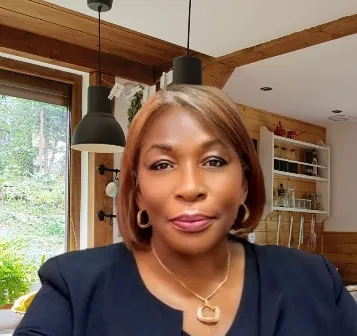
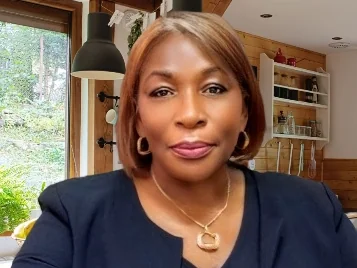
Unify team page to single 3x3 grid with bullet bios
Apply client feedback: combine onshore, offshore, and legal teams into one
"Our Team" section using uniform card sizes; preserve client's priority order
(Glen/Sonia, Monica G/Elaine, Monica L/Ruby, Nino/Mansheel, Priscilla); fix
"Norainy" -> "Nurainy" and "Priscillia" -> "Priscilla"; add Tamsyn Ong photo
and refresh Glen/Elaine/Ruby + others.

Replace prose bios with three-bullet summaries to keep card heights balanced,
switch avatar full size to a 4:3 aspect with object-top so headshots aren't
buried, and update home.blade collage to a uniform square grid in the new
client-requested order.

diff --git a/resources/views/pages/about/team.blade.php b/resources/views/pages/about/team.blade.php
@@ -2,30 +2,122 @@
           description="Meet the Blue Education team: multilingual specialists who have engaged with more than 145 nations, delivering education, migration, and career advice.">
 
     @php
-        $australianTeam = [
-            ['name' => 'Glen Ong', 'role' => 'Principal MARA Agent & Managing Director', 'photo' => 'images/team/glen-ong.webp', 'bio' => 'Glen brings nearly 20 years of experience across private and government education sectors. As Managing Director, he leads Blue\'s long-term strategy while remaining personally accessible to clients. A Registered Migration Agent, Glen is experienced in student visas, skilled migration, family and partner visas, and resident return visas.', 'credentials' => 'BCom (Marketing), BArts (Asian Studies) — Curtin University; Grad Certificate in Migration Law & Practice; MARN 1385471', 'languages' => 'English, Cantonese, Bahasa Malaysia'],
-            ['name' => 'Monica Gaikwad', 'role' => 'Service Manager', 'photo' => 'images/team/monica-gaikwad.webp', 'bio' => 'Monica joined Blue through the Executive Internship Programme and quickly proved herself a real asset to the team. As Service Manager, she oversees onshore client experience, coordinating between institutions and stakeholders to keep each case progressing smoothly and transparently. Originally from India, Monica enjoys cooking, calligraphy and relaxed brunches with friends.', 'credentials' => 'MBA — Curtin University; BBusiness (Accounting & Auditing) — S.N.D.T Women\'s University, Mumbai', 'languages' => 'English, Hindi, Marathi'],
-        ];
-
-        $legalTeam = [
-            ['name' => 'Mansheel Kaur', 'role' => 'Solicitor | Immigration Lawyer', 'photo' => 'images/team/mansheel-kaur.webp', 'bio' => 'Mansheel comes with over 35 years of legal experience spanning Australia and Malaysia. She has a strong track record across business migration, skilled migration, family and partner visas, contributory parent visas, and resident return visas. She is a Notary Public and an accredited Mediator, and speaks five languages.', 'credentials' => 'LL.B & Bachelor of Jurisprudence — Monash University; Solicitor (NSW); Advocate & Solicitor (Malaysia); Accredited Mediator; Notary Public', 'languages' => 'English, Malay, Indonesian, Punjabi, Hindi'],
-        ];
-
-        $sonia = ['name' => 'Sonia Ong', 'role' => 'Executive Director | Regional Operations', 'photo' => 'images/team/sonia-ong.webp', 'bio' => 'Sonia leads Blue\'s offshore initiatives, bringing over 20 years of experience in strategy, risk, and governance consulting. Her background spans multi-national corporations, public listed companies, and senior management advisory across Asia. She speaks fluently in five languages.', 'credentials' => 'MBA — Deakin University (Strategy & Planning); BCom — University of Western Australia; CPA (Australia); Chartered Accountant (Malaysia)', 'languages' => 'English, Mandarin, Cantonese, Bahasa Malaysia, Bahasa Indonesia'];
-
-        $internationalTeam = [
-            ['name' => 'Elaine Ho', 'role' => 'Regional Head, Malaysia', 'photo' => 'images/team/elaine-ho.webp', 'bio' => 'Elaine brings a rare combination of legal training, international procurement experience, and education counselling. After practising law in Malaysia, she moved into governance and strategy roles with the UN and a major Asia Pacific airline before dedicating herself to student and migration counselling.', 'credentials' => 'Barrister at Law — Lincoln\'s Inn', 'languages' => 'English, Malay, Cantonese', 'region' => 'Malaysia, Southeast Asia'],
-            ['name' => 'Monica Low', 'role' => 'Associate Counsellor, Malaysia', 'photo' => 'images/team/monica-low.webp', 'bio' => 'A native of Kuala Lumpur, Monica brings years of business and interpersonal skills developed across hotel management in Seattle, retail banking in Singapore, and now education counselling in Malaysia. Her approachable personality and multilingual fluency make her a natural fit for student interaction across Southeast Asia.', 'credentials' => 'BSc in Hospitality & Tourism Management — Purdue University; Postgraduate Diploma in Marketing — Curtin University', 'languages' => 'English, Bahasa Malaysia, Mandarin, Cantonese', 'region' => 'Malaysia, Southeast Asia'],
-            ['name' => 'Nino Sekyere-Boakye', 'role' => 'Regional Director, Ghana | Registered Migration Agent MARN: 0959773', 'photo' => 'images/team/nino-sekyere-boakye.webp', 'bio' => 'Nino is an academician and researcher who has spent over a decade helping African students pursue education and work experience in Australia. He has travelled and worked in over 25 African countries. As a Registered Migration Agent, Nino advises on courses, visa pathways, career options, and life in Australia.', 'credentials' => 'BA (Hons) — University of Ghana; Master of Professional Marketing — Edith Cowan University; Graduate Diploma of Migration Law — Murdoch University; MARN 0959773', 'languages' => 'English, French (conversational)', 'region' => 'Ghana, West Africa'],
-            ['name' => 'Ruby Aglagoh', 'role' => 'Regional Adviser, Ghana & West Africa', 'photo' => 'images/team/ruby-aglagoh.webp', 'bio' => 'Ruby Aglagoh is the Regional Adviser for Ghana and West Africa through an established strategic alliance with Blue Education. In this role, she provides guidance on international study pathways, student placement, and cross-border academic advisory services, supporting students and families in making informed study-abroad decisions. With a strong focus on ethical counselling and tailored support, Ruby plays a key role in bridging opportunities between this region and global educational institutions. Called to the Ghana Bar in 2001 and as Notary Public in 2012, Mrs. Ruby Aglagoh has built a distinguished legal career spanning over two decades.', 'credentials' => 'Barrister & Solicitor — Ghana Bar; Notary Public', 'languages' => 'English', 'region' => 'Ghana, West Africa'],
-            ['name' => 'Priscillia Bwalya Mwansa', 'role' => 'Regional Adviser, Lusaka | Senior Counsellor', 'photo' => 'images/team/priscilla-mwansa.webp', 'bio' => 'Priscillia is a Senior Counsellor responsible for planning, advising, and supporting students from Zambia and the broader region who wish to pursue education in Australia. With a background in strategic management and chartered accounting, she provides insight into both career planning and the financial considerations of studying abroad.', 'credentials' => 'Bachelor of Accounting — Copperbelt University; MBA (Finance, in progress); Chartered Accountant — ZICA', 'languages' => 'English, ici Bemba', 'region' => 'Zambia, Southern Africa'],
+        $mainTeam = [
+            [
+                'name' => 'Glen Ong',
+                'photo' => 'images/team/glen-ong.webp',
+                'languages' => 'English, Cantonese, Bahasa Malaysia',
+                'badge' => 'Managing Director · MARN 1385471',
+                'leadership' => true,
+                'bullets' => [
+                    'Nearly 20 years across education and migration sectors',
+                    'Registered Migration Agent specialising in student, skilled, family and partner visas',
+                    'BCom and BArts, Curtin University; Grad Cert Migration Law & Practice',
+                ],
+            ],
+            [
+                'name' => 'Sonia Ong',
+                'photo' => 'images/team/sonia-ong.webp',
+                'languages' => 'English, Mandarin, Cantonese, Bahasa Malaysia, Bahasa Indonesia',
+                'badge' => 'Executive Director · International Operations',
+                'leadership' => true,
+                'bullets' => [
+                    '20+ years in strategy, risk and governance consulting across Asia',
+                    'Experience spanning multi-nationals, public-listed companies and senior advisory',
+                    'MBA — Deakin University; CPA (Australia); Chartered Accountant (Malaysia)',
+                ],
+            ],
+            [
+                'name' => 'Monica Gaikwad',
+                'photo' => 'images/team/monica-gaikwad.webp',
+                'languages' => 'English, Hindi, Marathi',
+                'badge' => 'Service Manager',
+                'leadership' => false,
+                'bullets' => [
+                    'Joined Blue through the Executive Internship Programme',
+                    'Oversees onshore client experience end-to-end',
+                    'Coordinates institutions and stakeholders for smooth case progress',
+                ],
+            ],
+            [
+                'name' => 'Elaine Ho',
+                'photo' => 'images/team/elaine-ho.webp',
+                'languages' => 'English, Malay, Cantonese',
+                'badge' => 'Regional Head, Malaysia',
+                'leadership' => false,
+                'bullets' => [
+                    'Legal training and international procurement experience',
+                    'Former UN governance and Asia Pacific airline strategy roles',
+                    'Barrister at Law — Lincoln\'s Inn; specialises in student and migration counselling',
+                ],
+            ],
+            [
+                'name' => 'Monica Low',
+                'photo' => 'images/team/monica-low.webp',
+                'languages' => 'English, Bahasa Malaysia, Mandarin, Cantonese',
+                'badge' => 'Associate Counsellor, Malaysia',
+                'leadership' => false,
+                'bullets' => [
+                    'Hotel management, retail banking and education counselling experience',
+                    'Multilingual fluency for Southeast Asian student interaction',
+                    'BSc Hospitality & Tourism — Purdue University',
+                ],
+            ],
+            [
+                'name' => 'Ruby Aglagoh',
+                'photo' => 'images/team/ruby-aglagoh.webp',
+                'languages' => 'English',
+                'badge' => 'Regional Adviser, Ghana & West Africa',
+                'leadership' => false,
+                'bullets' => [
+                    'Strategic alliance partner for Ghana and West Africa',
+                    'Two decades-plus legal career; called to the Ghana Bar in 2001',
+                    'Notary Public; focus on ethical counselling and tailored support',
+                ],
+            ],
+            [
+                'name' => 'Nino Sekyere-Boakye',
+                'photo' => 'images/team/nino-sekyere-boakye.webp',
+                'languages' => 'English, French (conversational)',
+                'badge' => 'Regional Director, Ghana · MARN 0959773',
+                'leadership' => true,
+                'bullets' => [
+                    'A decade-plus supporting African students into Australia',
+                    'Lived and worked across 25+ African countries',
+                    'Registered Migration Agent; Master of Professional Marketing — ECU',
+                ],
+            ],
+            [
+                'name' => 'Mansheel Kaur',
+                'photo' => 'images/team/mansheel-kaur.webp',
+                'languages' => 'English, Malay, Indonesian, Punjabi, Hindi',
+                'badge' => 'Solicitor · Immigration Lawyer',
+                'leadership' => false,
+                'bullets' => [
+                    '35+ years of legal experience across Australia and Malaysia',
+                    'Track record in business, skilled, family and partner visas',
+                    'Notary Public, accredited Mediator; Solicitor (NSW); LL.B — Monash University',
+                ],
+            ],
+            [
+                'name' => 'Priscilla Bwalya Mwansa',
+                'photo' => 'images/team/priscilla-mwansa.webp',
+                'languages' => 'English, ici Bemba',
+                'badge' => 'Senior Counsellor, Lusaka',
+                'leadership' => false,
+                'bullets' => [
+                    'Senior Counsellor for Zambia and the broader region',
+                    'Strategic management and chartered accounting background',
+                    'Guides career planning and study-abroad financial considerations',
+                ],
+            ],
         ];
 
         $supportTeam = [
             ['name' => 'Hana Hursepuny', 'photo' => 'images/team/hana-hursepuny.webp'],
-            ['name' => 'Tamsyn Ong', 'photo' => null],
+            ['name' => 'Tamsyn Ong', 'photo' => 'images/team/tamsyn-ong.webp'],
             ['name' => 'Noor Ghafar', 'photo' => 'images/team/noor-ghafar.webp'],
-            ['name' => 'Norainy Desa', 'photo' => 'images/team/norainy-desa.webp'],
+            ['name' => 'Nurainy Desa', 'photo' => 'images/team/nurainy-desa.webp'],
             ['name' => 'Lucy Lim', 'photo' => 'images/team/lucy-lim.webp'],
             ['name' => 'Claudine Macaculop', 'photo' => 'images/team/claudine-macaculop.webp'],
         ];
@@ -46,83 +138,25 @@
         </div>
     </section>
 
-    {{-- §2 Australian Team --}}
+    {{-- §2 Our Team --}}
     <section class="bg-white">
         <div class="max-w-7xl mx-auto px-8 lg:px-16 py-14">
-            <x-section-heading title="Australian Team" :centered="false" />
-            <div class="grid sm:grid-cols-2 gap-6 [&_picture_img]:h-72" data-animate="stagger">
-                @foreach($australianTeam as $member)
-                    @php
-                        $isLeader = str_contains($member['role'], 'Managing Director');
-                    @endphp
+            <x-section-heading title="Our Team" :centered="false" />
+
+            <div class="grid sm:grid-cols-2 lg:grid-cols-3 gap-6" data-animate="stagger">
+                @foreach($mainTeam as $member)
                     <x-team-member :name="$member['name']"
-                                   :role="$member['role']"
                                    :photo="$member['photo']"
-                                   :bio="$member['bio']"
-                                   :credentials="$member['credentials']"
+                                   :bullets="$member['bullets']"
                                    :languages="$member['languages']"
-                                   :badge="$isLeader ? 'Managing Director · MARN 1385471' : null"
-                                   :leadership="$isLeader" />
+                                   :badge="$member['badge']"
+                                   :leadership="$member['leadership']" />
                 @endforeach
             </div>
         </div>
     </section>
 
-    {{-- §3 International Operations --}}
-    <section class="bg-base-50">
-        <div class="max-w-7xl mx-auto px-8 lg:px-16 py-14">
-            <x-section-heading title="International Operations" :centered="false" />
-            <p class="text-base-600 mb-10 text-lg leading-relaxed max-w-3xl text-pretty">Blue's international reach is powered by a team of regional representatives who provide localised support: in your language, in your time zone, with on-the-ground knowledge of your country's education and migration landscape.</p>
-
-            {{-- Sonia Ong — featured full-width lead --}}
-            <x-team-member :name="$sonia['name']"
-                           :role="$sonia['role']"
-                           :photo="$sonia['photo']"
-                           :bio="$sonia['bio']"
-                           :credentials="$sonia['credentials']"
-                           :languages="$sonia['languages']"
-                           variant="featured"
-                           badge="Executive Director · International Operations"
-                           :leadership="true"
-                           class="mb-6" />
-
-            {{-- Regional team grid --}}
-            <div class="grid sm:grid-cols-2 lg:grid-cols-3 gap-5" data-animate="stagger">
-                @foreach($internationalTeam as $member)
-                    <x-team-member :name="$member['name']"
-                                   :role="$member['role']"
-                                   :photo="$member['photo']"
-                                   :bio="$member['bio']"
-                                   :credentials="$member['credentials']"
-                                   :languages="$member['languages']"
-                                   :badge="($member['region'] ?? null) ? $member['role'] : null"
-                                   :leadership="str_contains($member['role'], 'Director')" />
-                @endforeach
-            </div>
-        </div>
-    </section>
-
-    {{-- §4 Migration & Legal Specialists --}}
-    <section class="bg-white">
-        <div class="max-w-7xl mx-auto px-8 lg:px-16 py-14">
-            <x-section-heading title="Migration & Legal Specialists" :centered="false" />
-            <p class="text-base-600 mb-10 leading-relaxed max-w-3xl text-pretty">Blue's migration and legal specialists are fully registered and credentialled. Whether you need visa advice, migration strategy, or legal representation, we have qualified professionals on the team.</p>
-            <div class="grid sm:grid-cols-1 lg:grid-cols-2 gap-6" data-animate="stagger">
-                @foreach($legalTeam as $member)
-                    <x-team-member :name="$member['name']"
-                                   :role="$member['role']"
-                                   :photo="$member['photo']"
-                                   :bio="$member['bio']"
-                                   :credentials="$member['credentials']"
-                                   :languages="$member['languages']"
-                                   variant="legal"
-                                   :badge="$member['role']" />
-                @endforeach
-            </div>
-        </div>
-    </section>
-
-    {{-- §5 Associates & Back-Office Support --}}
+    {{-- §3 Associates & Back-Office Support --}}
     <section class="bg-base-50">
         <div class="max-w-7xl mx-auto px-8 lg:px-16 py-14">
             <x-section-heading title="Our Associates and Back-Office Support Team" :centered="false" />
@@ -144,7 +178,7 @@
         </div>
     </section>
 
-    {{-- §6 Our Expertise --}}
+    {{-- §4 Our Expertise --}}
     <section class="bg-white">
         <div class="max-w-7xl mx-auto px-8 lg:px-16 py-14">
             <x-section-heading title="Our Expertise" />
@@ -166,7 +200,7 @@
         </div>
     </section>
 
-    {{-- §6 Credentials & Registrations --}}
+    {{-- §5 Credentials & Registrations --}}
     <section class="bg-base-50 border-y border-base-200">
         <div class="max-w-7xl mx-auto px-8 lg:px-16 py-8">
             <h2 class="sr-only">Credentials and registrations</h2>
@@ -192,7 +226,7 @@
         </div>
     </section>
 
-    {{-- §8 CTA Banner --}}
+    {{-- §6 CTA Banner --}}
     <x-cta-banner title="Work with a team that understands your world"
                   subtitle="Book a consultation with an adviser who speaks your language and knows your market."
                   primaryText="Book a Consultation"

diff --git a/resources/views/pages/home.blade.php b/resources/views/pages/home.blade.php
@@ -96,28 +96,28 @@
                 @php
                 $teamPhotos = [
                 'images/team/glen-ong.webp',
-                'images/team/monica-gaikwad.webp',
-                'images/team/flora-wang.webp',
-                'images/team/shen-sekhon.webp',
-                'images/team/mansheel-kaur.webp',
-                'images/team/arwinder-singh.webp',
                 'images/team/sonia-ong.webp',
+                'images/team/monica-gaikwad.webp',
                 'images/team/elaine-ho.webp',
                 'images/team/monica-low.webp',
-                'images/team/hana-hursepuny.webp',
-                'images/team/minami-sakamoto.webp',
+                'images/team/ruby-aglagoh.webp',
                 'images/team/nino-sekyere-boakye.webp',
-                'images/team/elijah-chongo.webp',
+                'images/team/mansheel-kaur.webp',
                 'images/team/priscilla-mwansa.webp',
-                'images/team/sherene-chan.webp',
+                'images/team/hana-hursepuny.webp',
+                'images/team/tamsyn-ong.webp',
+                'images/team/noor-ghafar.webp',
+                'images/team/nurainy-desa.webp',
+                'images/team/lucy-lim.webp',
+                'images/team/claudine-macaculop.webp',
                 ];
                 @endphp
                 <div class="flex-1 lg:-mr-16 xl:-mr-24 2xl:-mr-32 min-w-0">
-                    <div class="columns-3 sm:columns-4 lg:columns-5 gap-3">
-                        @foreach($teamPhotos as $i => $photo)
+                    <div class="grid grid-cols-3 sm:grid-cols-4 lg:grid-cols-5 gap-3">
+                        @foreach($teamPhotos as $photo)
                             <img src="{{ asset($photo) }}"
                                  alt="Blue Education team member"
-                                 class="w-full object-cover rounded-corner-lg mb-3 {{ ['aspect-[4/5]', 'aspect-square', 'aspect-[3/4]'][$i % 3] }}"
+                                 class="w-full aspect-square object-cover rounded-corner-lg"
                                  loading="lazy">
                         @endforeach
                     </div>
@@ -217,7 +217,7 @@
 
                 <x-card title="A qualification system designed to move with you."
                         description="The Australian Qualifications Framework ranks every recognised credential from Certificate to PhD on one national scale. That makes it straightforward to transfer credits, step up between levels, and prove your qualification to employers and migration authorities."
-                        :image="asset('images/home/wa-aqf.svg')"
+                        :image="asset('images/home/wa-aqf.png')"
                         alt="Australian Qualifications Framework levels from Certificate I through to Doctoral Degree"
                         aspect="16/9" />
             </div>

diff --git a/resources/views/components/team-member.blade.php b/resources/views/components/team-member.blade.php
@@ -16,6 +16,7 @@
     'role',
     'photo' => null,
     'bio' => null,
+    'bullets' => [],
     'credentials' => null,
     'languages' => null,
     'variant' => 'card',
@@ -74,15 +75,24 @@
 
 @else
     {{-- Default card variant: photo on top, bordered card --}}
-    <article {{ $attributes->merge(['class' => 'border border-base-200 rounded-corner-lg overflow-hidden shadow-md']) }}>
+    <article {{ $attributes->merge(['class' => 'flex flex-col border border-base-200 rounded-corner-lg overflow-hidden shadow-md bg-white']) }}>
         <x-avatar :name="$name" :photo="$photo" size="full" />
-        <div class="p-5">
-            <div class="inline-block {{ $badgeClasses }} border text-xs font-bold px-2 py-0.5 rounded mb-3">{{ $badgeLabel }}</div>
+        <div class="p-5 flex flex-col flex-1">
+            <div class="inline-block self-start {{ $badgeClasses }} border text-xs font-bold px-2 py-0.5 rounded mb-3">{{ $badgeLabel }}</div>
             <h3 class="font-bold text-base-900 text-base">{{ $name }}</h3>
             @if($languages)
                 <p class="text-xs text-base-500 mt-1.5">{{ $languages }}</p>
             @endif
-            @if($bio)
+            @if(!empty($bullets))
+                <ul class="mt-3 space-y-1.5 text-sm text-base-600">
+                    @foreach($bullets as $bullet)
+                        <li class="flex gap-2 leading-relaxed text-pretty">
+                            <span class="text-primary-600 shrink-0" aria-hidden="true">&bull;</span>
+                            <span>{{ $bullet }}</span>
+                        </li>
+                    @endforeach
+                </ul>
+            @elseif($bio)
                 <p class="text-sm text-base-600 mt-3 leading-relaxed text-pretty">{{ $bio }}</p>
             @endif
         </div>

diff --git a/resources/views/components/avatar.blade.php b/resources/views/components/avatar.blade.php
@@ -23,7 +23,7 @@
         'sm'   => ['container' => 'w-10 h-10', 'text' => 'text-sm', 'width' => 40, 'height' => 40],
         'md'   => ['container' => 'w-30 h-40', 'text' => 'text-3xl', 'width' => 120, 'height' => 160],
         'lg'   => ['container' => 'w-40 h-52', 'text' => 'text-3xl', 'width' => 160, 'height' => 208],
-        'full' => ['container' => 'w-full h-56', 'text' => 'text-3xl', 'width' => 320, 'height' => 224],
+        'full' => ['container' => 'w-full aspect-[4/3]', 'text' => 'text-3xl', 'width' => 320, 'height' => 240],
     ];
     $s = $sizes[$size] ?? $sizes['md'];
     $radius = $shape === 'circle' ? 'rounded-full' : 'rounded-xl';
